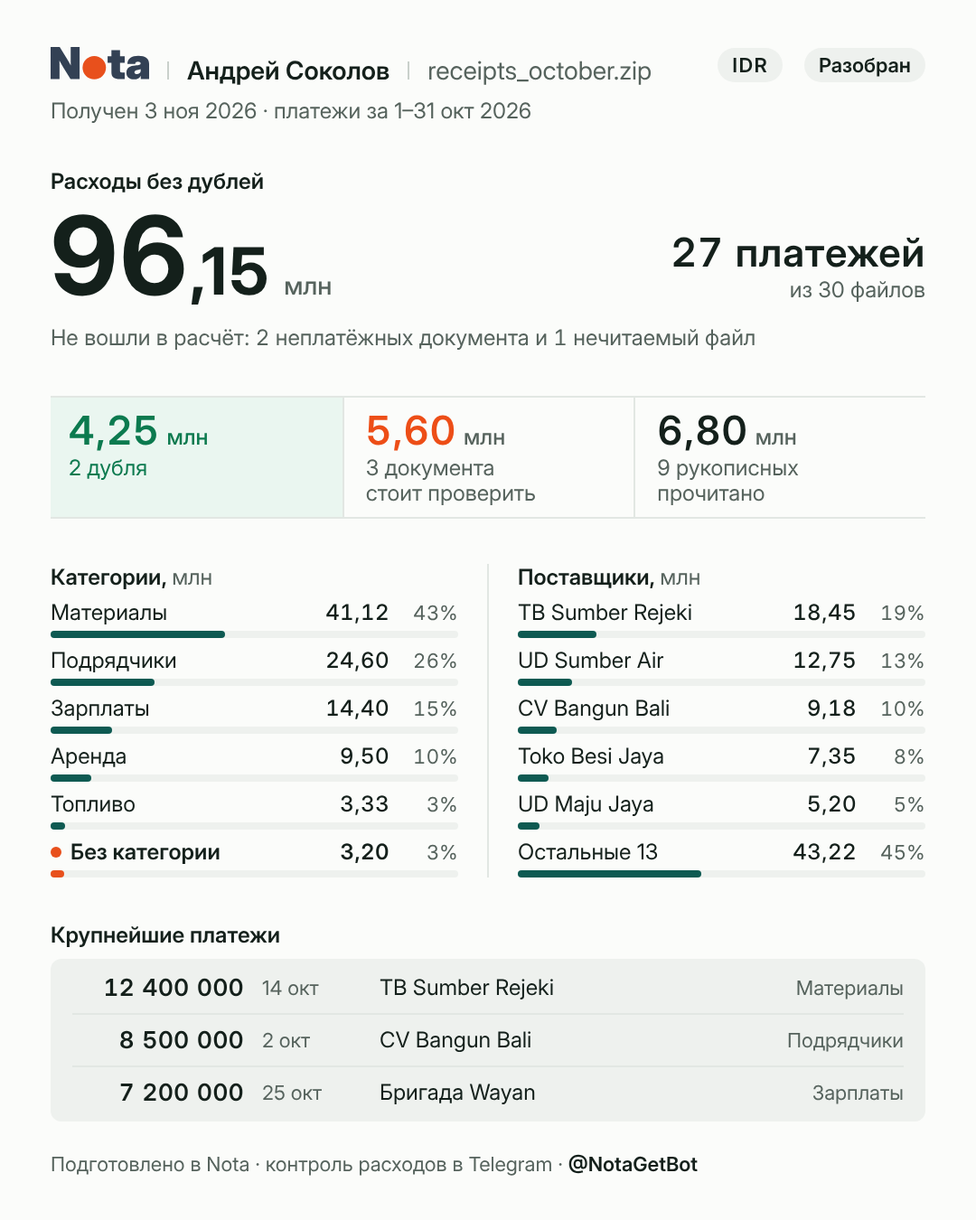
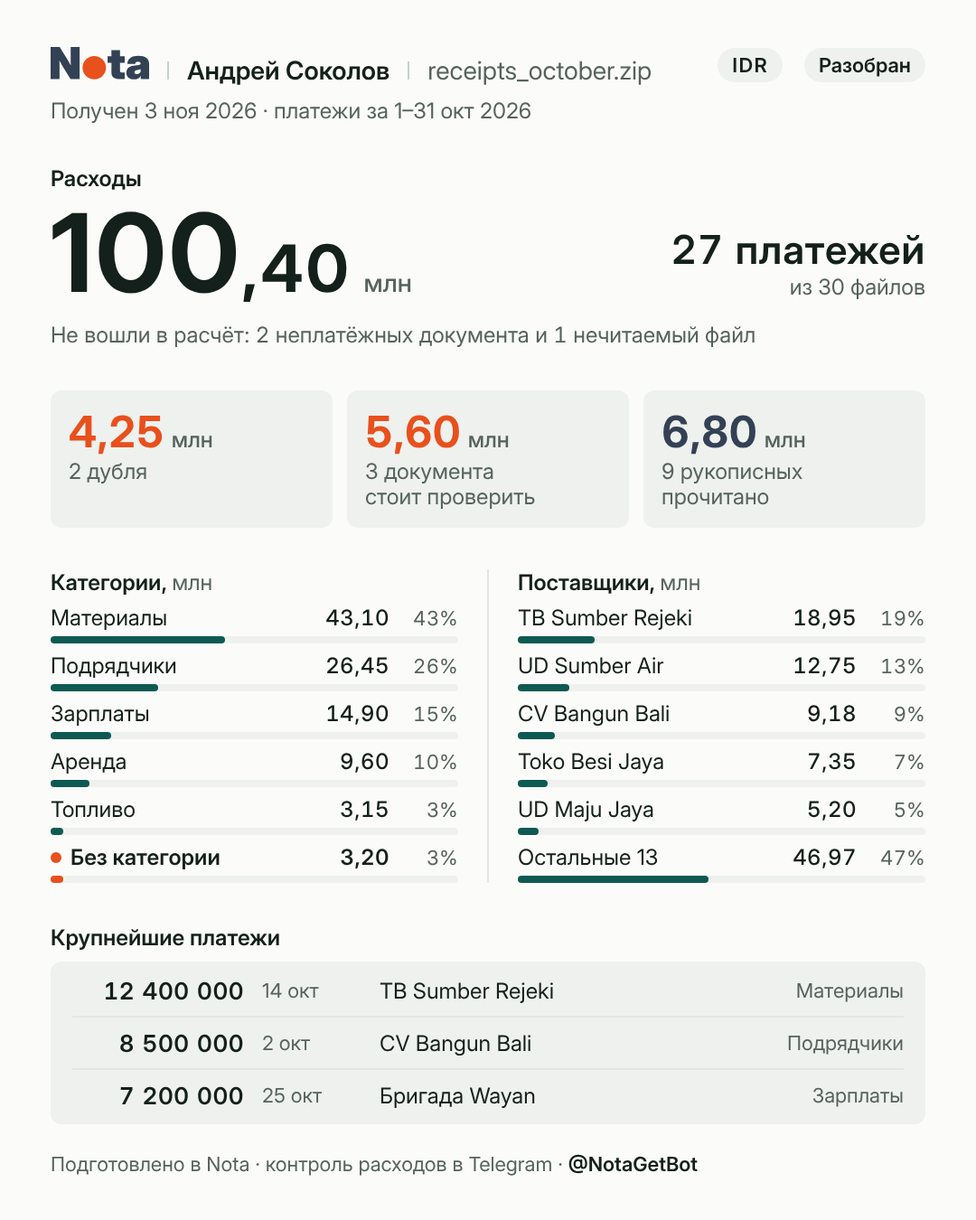
Founder notes: archive card with tiles and gross total
Claude-Session: https://claude.ai/code/session_01L3HhR7LSGwJtypFbeUeh92

diff --git a/founder/report-cards/archive.html b/founder/report-cards/archive.html
@@ -21,15 +21,15 @@ a{color:#56635D}a:hover{color:#14201B}
 <div style="height: 12px; flex: none"></div>
 <div style="font-size: 24px; color: #56635D; white-space: nowrap">Получен 3 ноя 2026 · платежи за 1–31 окт 2026</div>
 <div style="flex: 1 0 40px; max-height: 96px"></div>
-<div style="font-size: 24px; font-weight: 600; color: #14201B">Расходы без дублей</div>
+<div style="font-size: 24px; font-weight: 600; color: #14201B">Расходы</div>
 <div style="height: 8px; flex: none"></div>
-<div style="height: 120px; display: flex; align-items: flex-end; justify-content: space-between"><div style="display: flex; align-items: baseline; gap: 14px"><span style="font-size: 120px; font-weight: 700; line-height: 1; letter-spacing: 0.025em; color: #14201B">96<span style="font-size: 72px">,15</span></span><span style="font-size: 28px; font-weight: 500; color: #56635D">млн</span></div><div style="display: flex; flex-direction: column; align-items: flex-end; gap: 4px; padding-bottom: 8px"><span style="font-size: 44px; font-weight: 600; line-height: 48px; color: #14201B; font-variant-numeric: tabular-nums; letter-spacing: 0.02em">27 платежей</span><span style="font-size: 24px; line-height: 28px; color: #56635D">из 30 файлов</span></div></div>
+<div style="height: 120px; display: flex; align-items: flex-end; justify-content: space-between"><div style="display: flex; align-items: baseline; gap: 14px"><span style="font-size: 120px; font-weight: 700; line-height: 1; letter-spacing: 0.025em; color: #14201B">100<span style="font-size: 72px">,40</span></span><span style="font-size: 28px; font-weight: 500; color: #56635D">млн</span></div><div style="display: flex; flex-direction: column; align-items: flex-end; gap: 4px; padding-bottom: 8px"><span style="font-size: 44px; font-weight: 600; line-height: 48px; color: #14201B; font-variant-numeric: tabular-nums; letter-spacing: 0.02em">27 платежей</span><span style="font-size: 24px; line-height: 28px; color: #56635D">из 30 файлов</span></div></div>
 <div style="height: 16px; flex: none"></div>
 <div style="font-size: 24px; line-height: 30px; color: #56635D; font-variant-numeric: tabular-nums">Не вошли в расчёт: 2 неплатёжных документа и 1 нечитаемый файл</div>
 <div style="flex: 1 0 40px; max-height: 96px"></div>
-<div style="height: 136px; box-sizing: border-box; display: grid; grid-template-columns: 1fr 1fr 1fr; border-top: 2px solid #E2E7E3; border-bottom: 2px solid #E2E7E3"><div style="background: #EAF6F0; padding: 12px 16px 12px 20px; display: flex; flex-direction: column; gap: 4px"><div style="display: flex; align-items: baseline; gap: 8px; white-space: nowrap"><span style="font-size: 44px; font-weight: 600; line-height: 48px; color: #0C7A4F; font-variant-numeric: tabular-nums; letter-spacing: 0.02em">4,25</span><span style="font-size: 24px; font-weight: 500; color: #0C7A4F">млн</span></div><div style="font-size: 24px; line-height: 28px; color: #0C7A4F">2 дубля</div></div><div style="border-left: 2px solid #E2E7E3; padding: 12px 16px 12px 24px; display: flex; flex-direction: column; gap: 4px"><div style="display: flex; align-items: baseline; gap: 8px; white-space: nowrap"><span style="font-size: 44px; font-weight: 600; line-height: 48px; color: #ED4E17; font-variant-numeric: tabular-nums; letter-spacing: 0.02em">5,60</span><span style="font-size: 24px; font-weight: 500; color: #56635D">млн</span></div><div style="font-size: 24px; line-height: 28px; color: #56635D">3 документа<br>стоит проверить</div></div><div style="border-left: 2px solid #E2E7E3; padding: 12px 16px 12px 24px; display: flex; flex-direction: column; gap: 4px"><div style="display: flex; align-items: baseline; gap: 8px; white-space: nowrap"><span style="font-size: 44px; font-weight: 600; line-height: 48px; color: #14201B; font-variant-numeric: tabular-nums; letter-spacing: 0.02em">6,80</span><span style="font-size: 24px; font-weight: 500; color: #56635D">млн</span></div><div style="font-size: 24px; line-height: 28px; color: #56635D">9 рукописных<br>прочитано</div></div></div>
+<div style="display: grid; grid-template-columns: repeat(3, minmax(0, 1fr)); gap: 16px"><div style="box-sizing: border-box; min-width: 0; padding: 20px; background: #EEF1EE; border-radius: 12px; display: flex; flex-direction: column; gap: 4px"><div style="display: flex; align-items: baseline; gap: 8px; white-space: nowrap"><span style="font-size: 48px; font-weight: 700; line-height: 52px; color: #E8501C; font-variant-numeric: tabular-nums">4,25</span><span style="font-size: 24px; font-weight: 500; color: #56635D">млн</span></div><div style="font-size: 24px; line-height: 28px; min-height: 56px; color: #56635D">2 дубля</div></div><div style="box-sizing: border-box; min-width: 0; padding: 20px; background: #EEF1EE; border-radius: 12px; display: flex; flex-direction: column; gap: 4px"><div style="display: flex; align-items: baseline; gap: 8px; white-space: nowrap"><span style="font-size: 48px; font-weight: 700; line-height: 52px; color: #E8501C; font-variant-numeric: tabular-nums">5,60</span><span style="font-size: 24px; font-weight: 500; color: #56635D">млн</span></div><div style="font-size: 24px; line-height: 28px; min-height: 56px; color: #56635D">3 документа<br>стоит проверить</div></div><div style="box-sizing: border-box; min-width: 0; padding: 20px; background: #EEF1EE; border-radius: 12px; display: flex; flex-direction: column; gap: 4px"><div style="display: flex; align-items: baseline; gap: 8px; white-space: nowrap"><span style="font-size: 48px; font-weight: 700; line-height: 52px; color: #334154; font-variant-numeric: tabular-nums">6,80</span><span style="font-size: 24px; font-weight: 500; color: #56635D">млн</span></div><div style="font-size: 24px; line-height: 28px; min-height: 56px; color: #56635D">9 рукописных<br>прочитано</div></div></div>
 <div style="flex: 1 0 40px; max-height: 96px"></div>
-<div style="display: grid; grid-template-columns: 1fr 2px 1fr; column-gap: 32px; align-items: start"><div style="display: flex; flex-direction: column; gap: 10px"><div style="font-size: 24px; font-weight: 600; color: #14201B">Категории, <span style="font-weight: 400; color: #56635D">млн</span></div><div><div style="display: grid; grid-template-columns: 1fr auto 64px; column-gap: 12px; align-items: baseline"><span style="font-size: 24px; font-weight: 400; color: #14201B; white-space: nowrap; overflow: hidden; text-overflow: ellipsis">Материалы</span><span style="font-size: 24px; font-weight: 500; font-variant-numeric: tabular-nums; letter-spacing: 0.02em">41,12</span><span style="font-size: 22px; color: #56635D; text-align: right; font-variant-numeric: tabular-nums; letter-spacing: 0.02em">43%</span></div><div style="margin-top: 6px; height: 8px; border-radius: 4px; background: #EEF1EE"><div style="width: 42.8%; height: 8px; border-radius: 4px; background: #0E5A52"></div></div></div><div><div style="display: grid; grid-template-columns: 1fr auto 64px; column-gap: 12px; align-items: baseline"><span style="font-size: 24px; font-weight: 400; color: #14201B; white-space: nowrap; overflow: hidden; text-overflow: ellipsis">Подрядчики</span><span style="font-size: 24px; font-weight: 500; font-variant-numeric: tabular-nums; letter-spacing: 0.02em">24,60</span><span style="font-size: 22px; color: #56635D; text-align: right; font-variant-numeric: tabular-nums; letter-spacing: 0.02em">26%</span></div><div style="margin-top: 6px; height: 8px; border-radius: 4px; background: #EEF1EE"><div style="width: 25.6%; height: 8px; border-radius: 4px; background: #0E5A52"></div></div></div><div><div style="display: grid; grid-template-columns: 1fr auto 64px; column-gap: 12px; align-items: baseline"><span style="font-size: 24px; font-weight: 400; color: #14201B; white-space: nowrap; overflow: hidden; text-overflow: ellipsis">Зарплаты</span><span style="font-size: 24px; font-weight: 500; font-variant-numeric: tabular-nums; letter-spacing: 0.02em">14,40</span><span style="font-size: 22px; color: #56635D; text-align: right; font-variant-numeric: tabular-nums; letter-spacing: 0.02em">15%</span></div><div style="margin-top: 6px; height: 8px; border-radius: 4px; background: #EEF1EE"><div style="width: 15.0%; height: 8px; border-radius: 4px; background: #0E5A52"></div></div></div><div><div style="display: grid; grid-template-columns: 1fr auto 64px; column-gap: 12px; align-items: baseline"><span style="font-size: 24px; font-weight: 400; color: #14201B; white-space: nowrap; overflow: hidden; text-overflow: ellipsis">Аренда</span><span style="font-size: 24px; font-weight: 500; font-variant-numeric: tabular-nums; letter-spacing: 0.02em">9,50</span><span style="font-size: 22px; color: #56635D; text-align: right; font-variant-numeric: tabular-nums; letter-spacing: 0.02em">10%</span></div><div style="margin-top: 6px; height: 8px; border-radius: 4px; background: #EEF1EE"><div style="width: 9.9%; height: 8px; border-radius: 4px; background: #0E5A52"></div></div></div><div><div style="display: grid; grid-template-columns: 1fr auto 64px; column-gap: 12px; align-items: baseline"><span style="font-size: 24px; font-weight: 400; color: #14201B; white-space: nowrap; overflow: hidden; text-overflow: ellipsis">Топливо</span><span style="font-size: 24px; font-weight: 500; font-variant-numeric: tabular-nums; letter-spacing: 0.02em">3,33</span><span style="font-size: 22px; color: #56635D; text-align: right; font-variant-numeric: tabular-nums; letter-spacing: 0.02em">3%</span></div><div style="margin-top: 6px; height: 8px; border-radius: 4px; background: #EEF1EE"><div style="width: 3.5%; height: 8px; border-radius: 4px; background: #0E5A52"></div></div></div><div><div style="display: grid; grid-template-columns: 1fr auto 64px; column-gap: 12px; align-items: baseline"><span style="font-size: 24px; font-weight: 600; color: #14201B; white-space: nowrap; overflow: hidden; text-overflow: ellipsis"><span style="display: inline-block; width: 12px; height: 12px; background: #E8501C; border-radius: 50%; margin-right: 10px; vertical-align: 2px"></span>Без категории</span><span style="font-size: 24px; font-weight: 600; font-variant-numeric: tabular-nums; letter-spacing: 0.02em">3,20</span><span style="font-size: 22px; color: #56635D; text-align: right; font-variant-numeric: tabular-nums; letter-spacing: 0.02em">3%</span></div><div style="margin-top: 6px; height: 8px; border-radius: 4px; background: #EEF1EE"><div style="width: 3.3%; height: 8px; border-radius: 4px; background: #E8501C"></div></div></div></div><div style="background: #E2E7E3; align-self: stretch"></div><div style="display: flex; flex-direction: column; gap: 10px"><div style="font-size: 24px; font-weight: 600; color: #14201B">Поставщики, <span style="font-weight: 400; color: #56635D">млн</span></div><div><div style="display: grid; grid-template-columns: 1fr auto 64px; column-gap: 12px; align-items: baseline"><span style="font-size: 24px; font-weight: 400; color: #14201B; white-space: nowrap; overflow: hidden; text-overflow: ellipsis">TB Sumber Rejeki</span><span style="font-size: 24px; font-weight: 500; font-variant-numeric: tabular-nums; letter-spacing: 0.02em">18,45</span><span style="font-size: 22px; color: #56635D; text-align: right; font-variant-numeric: tabular-nums; letter-spacing: 0.02em">19%</span></div><div style="margin-top: 6px; height: 8px; border-radius: 4px; background: #EEF1EE"><div style="width: 19.2%; height: 8px; border-radius: 4px; background: #0E5A52"></div></div></div><div><div style="display: grid; grid-template-columns: 1fr auto 64px; column-gap: 12px; align-items: baseline"><span style="font-size: 24px; font-weight: 400; color: #14201B; white-space: nowrap; overflow: hidden; text-overflow: ellipsis">UD Sumber Air</span><span style="font-size: 24px; font-weight: 500; font-variant-numeric: tabular-nums; letter-spacing: 0.02em">12,75</span><span style="font-size: 22px; color: #56635D; text-align: right; font-variant-numeric: tabular-nums; letter-spacing: 0.02em">13%</span></div><div style="margin-top: 6px; height: 8px; border-radius: 4px; background: #EEF1EE"><div style="width: 13.3%; height: 8px; border-radius: 4px; background: #0E5A52"></div></div></div><div><div style="display: grid; grid-template-columns: 1fr auto 64px; column-gap: 12px; align-items: baseline"><span style="font-size: 24px; font-weight: 400; color: #14201B; white-space: nowrap; overflow: hidden; text-overflow: ellipsis">CV Bangun Bali</span><span style="font-size: 24px; font-weight: 500; font-variant-numeric: tabular-nums; letter-spacing: 0.02em">9,18</span><span style="font-size: 22px; color: #56635D; text-align: right; font-variant-numeric: tabular-nums; letter-spacing: 0.02em">10%</span></div><div style="margin-top: 6px; height: 8px; border-radius: 4px; background: #EEF1EE"><div style="width: 9.5%; height: 8px; border-radius: 4px; background: #0E5A52"></div></div></div><div><div style="display: grid; grid-template-columns: 1fr auto 64px; column-gap: 12px; align-items: baseline"><span style="font-size: 24px; font-weight: 400; color: #14201B; white-space: nowrap; overflow: hidden; text-overflow: ellipsis">Toko Besi Jaya</span><span style="font-size: 24px; font-weight: 500; font-variant-numeric: tabular-nums; letter-spacing: 0.02em">7,35</span><span style="font-size: 22px; color: #56635D; text-align: right; font-variant-numeric: tabular-nums; letter-spacing: 0.02em">8%</span></div><div style="margin-top: 6px; height: 8px; border-radius: 4px; background: #EEF1EE"><div style="width: 7.6%; height: 8px; border-radius: 4px; background: #0E5A52"></div></div></div><div><div style="display: grid; grid-template-columns: 1fr auto 64px; column-gap: 12px; align-items: baseline"><span style="font-size: 24px; font-weight: 400; color: #14201B; white-space: nowrap; overflow: hidden; text-overflow: ellipsis">UD Maju Jaya</span><span style="font-size: 24px; font-weight: 500; font-variant-numeric: tabular-nums; letter-spacing: 0.02em">5,20</span><span style="font-size: 22px; color: #56635D; text-align: right; font-variant-numeric: tabular-nums; letter-spacing: 0.02em">5%</span></div><div style="margin-top: 6px; height: 8px; border-radius: 4px; background: #EEF1EE"><div style="width: 5.4%; height: 8px; border-radius: 4px; background: #0E5A52"></div></div></div><div><div style="display: grid; grid-template-columns: 1fr auto 64px; column-gap: 12px; align-items: baseline"><span style="font-size: 24px; font-weight: 400; color: #14201B; white-space: nowrap; overflow: hidden; text-overflow: ellipsis">Остальные 13</span><span style="font-size: 24px; font-weight: 500; font-variant-numeric: tabular-nums; letter-spacing: 0.02em">43,22</span><span style="font-size: 22px; color: #56635D; text-align: right; font-variant-numeric: tabular-nums; letter-spacing: 0.02em">45%</span></div><div style="margin-top: 6px; height: 8px; border-radius: 4px; background: #EEF1EE"><div style="width: 45.0%; height: 8px; border-radius: 4px; background: #0E5A52"></div></div></div></div></div>
+<div style="display: grid; grid-template-columns: 1fr 2px 1fr; column-gap: 32px; align-items: start"><div style="display: flex; flex-direction: column; gap: 10px"><div style="font-size: 24px; font-weight: 600; color: #14201B">Категории, <span style="font-weight: 400; color: #56635D">млн</span></div><div><div style="display: grid; grid-template-columns: 1fr auto 64px; column-gap: 12px; align-items: baseline"><span style="font-size: 24px; font-weight: 400; color: #14201B; white-space: nowrap; overflow: hidden; text-overflow: ellipsis">Материалы</span><span style="font-size: 24px; font-weight: 500; font-variant-numeric: tabular-nums; letter-spacing: 0.02em">43,10</span><span style="font-size: 22px; color: #56635D; text-align: right; font-variant-numeric: tabular-nums; letter-spacing: 0.02em">43%</span></div><div style="margin-top: 6px; height: 8px; border-radius: 4px; background: #EEF1EE"><div style="width: 42.9%; height: 8px; border-radius: 4px; background: #0E5A52"></div></div></div><div><div style="display: grid; grid-template-columns: 1fr auto 64px; column-gap: 12px; align-items: baseline"><span style="font-size: 24px; font-weight: 400; color: #14201B; white-space: nowrap; overflow: hidden; text-overflow: ellipsis">Подрядчики</span><span style="font-size: 24px; font-weight: 500; font-variant-numeric: tabular-nums; letter-spacing: 0.02em">26,45</span><span style="font-size: 22px; color: #56635D; text-align: right; font-variant-numeric: tabular-nums; letter-spacing: 0.02em">26%</span></div><div style="margin-top: 6px; height: 8px; border-radius: 4px; background: #EEF1EE"><div style="width: 26.3%; height: 8px; border-radius: 4px; background: #0E5A52"></div></div></div><div><div style="display: grid; grid-template-columns: 1fr auto 64px; column-gap: 12px; align-items: baseline"><span style="font-size: 24px; font-weight: 400; color: #14201B; white-space: nowrap; overflow: hidden; text-overflow: ellipsis">Зарплаты</span><span style="font-size: 24px; font-weight: 500; font-variant-numeric: tabular-nums; letter-spacing: 0.02em">14,90</span><span style="font-size: 22px; color: #56635D; text-align: right; font-variant-numeric: tabular-nums; letter-spacing: 0.02em">15%</span></div><div style="margin-top: 6px; height: 8px; border-radius: 4px; background: #EEF1EE"><div style="width: 14.8%; height: 8px; border-radius: 4px; background: #0E5A52"></div></div></div><div><div style="display: grid; grid-template-columns: 1fr auto 64px; column-gap: 12px; align-items: baseline"><span style="font-size: 24px; font-weight: 400; color: #14201B; white-space: nowrap; overflow: hidden; text-overflow: ellipsis">Аренда</span><span style="font-size: 24px; font-weight: 500; font-variant-numeric: tabular-nums; letter-spacing: 0.02em">9,60</span><span style="font-size: 22px; color: #56635D; text-align: right; font-variant-numeric: tabular-nums; letter-spacing: 0.02em">10%</span></div><div style="margin-top: 6px; height: 8px; border-radius: 4px; background: #EEF1EE"><div style="width: 9.6%; height: 8px; border-radius: 4px; background: #0E5A52"></div></div></div><div><div style="display: grid; grid-template-columns: 1fr auto 64px; column-gap: 12px; align-items: baseline"><span style="font-size: 24px; font-weight: 400; color: #14201B; white-space: nowrap; overflow: hidden; text-overflow: ellipsis">Топливо</span><span style="font-size: 24px; font-weight: 500; font-variant-numeric: tabular-nums; letter-spacing: 0.02em">3,15</span><span style="font-size: 22px; color: #56635D; text-align: right; font-variant-numeric: tabular-nums; letter-spacing: 0.02em">3%</span></div><div style="margin-top: 6px; height: 8px; border-radius: 4px; background: #EEF1EE"><div style="width: 3.1%; height: 8px; border-radius: 4px; background: #0E5A52"></div></div></div><div><div style="display: grid; grid-template-columns: 1fr auto 64px; column-gap: 12px; align-items: baseline"><span style="font-size: 24px; font-weight: 600; color: #14201B; white-space: nowrap; overflow: hidden; text-overflow: ellipsis"><span style="display: inline-block; width: 12px; height: 12px; background: #E8501C; border-radius: 50%; margin-right: 10px; vertical-align: 2px"></span>Без категории</span><span style="font-size: 24px; font-weight: 600; font-variant-numeric: tabular-nums; letter-spacing: 0.02em">3,20</span><span style="font-size: 22px; color: #56635D; text-align: right; font-variant-numeric: tabular-nums; letter-spacing: 0.02em">3%</span></div><div style="margin-top: 6px; height: 8px; border-radius: 4px; background: #EEF1EE"><div style="width: 3.2%; height: 8px; border-radius: 4px; background: #E8501C"></div></div></div></div><div style="background: #E2E7E3; align-self: stretch"></div><div style="display: flex; flex-direction: column; gap: 10px"><div style="font-size: 24px; font-weight: 600; color: #14201B">Поставщики, <span style="font-weight: 400; color: #56635D">млн</span></div><div><div style="display: grid; grid-template-columns: 1fr auto 64px; column-gap: 12px; align-items: baseline"><span style="font-size: 24px; font-weight: 400; color: #14201B; white-space: nowrap; overflow: hidden; text-overflow: ellipsis">TB Sumber Rejeki</span><span style="font-size: 24px; font-weight: 500; font-variant-numeric: tabular-nums; letter-spacing: 0.02em">18,95</span><span style="font-size: 22px; color: #56635D; text-align: right; font-variant-numeric: tabular-nums; letter-spacing: 0.02em">19%</span></div><div style="margin-top: 6px; height: 8px; border-radius: 4px; background: #EEF1EE"><div style="width: 18.9%; height: 8px; border-radius: 4px; background: #0E5A52"></div></div></div><div><div style="display: grid; grid-template-columns: 1fr auto 64px; column-gap: 12px; align-items: baseline"><span style="font-size: 24px; font-weight: 400; color: #14201B; white-space: nowrap; overflow: hidden; text-overflow: ellipsis">UD Sumber Air</span><span style="font-size: 24px; font-weight: 500; font-variant-numeric: tabular-nums; letter-spacing: 0.02em">12,75</span><span style="font-size: 22px; color: #56635D; text-align: right; font-variant-numeric: tabular-nums; letter-spacing: 0.02em">13%</span></div><div style="margin-top: 6px; height: 8px; border-radius: 4px; background: #EEF1EE"><div style="width: 12.7%; height: 8px; border-radius: 4px; background: #0E5A52"></div></div></div><div><div style="display: grid; grid-template-columns: 1fr auto 64px; column-gap: 12px; align-items: baseline"><span style="font-size: 24px; font-weight: 400; color: #14201B; white-space: nowrap; overflow: hidden; text-overflow: ellipsis">CV Bangun Bali</span><span style="font-size: 24px; font-weight: 500; font-variant-numeric: tabular-nums; letter-spacing: 0.02em">9,18</span><span style="font-size: 22px; color: #56635D; text-align: right; font-variant-numeric: tabular-nums; letter-spacing: 0.02em">9%</span></div><div style="margin-top: 6px; height: 8px; border-radius: 4px; background: #EEF1EE"><div style="width: 9.1%; height: 8px; border-radius: 4px; background: #0E5A52"></div></div></div><div><div style="display: grid; grid-template-columns: 1fr auto 64px; column-gap: 12px; align-items: baseline"><span style="font-size: 24px; font-weight: 400; color: #14201B; white-space: nowrap; overflow: hidden; text-overflow: ellipsis">Toko Besi Jaya</span><span style="font-size: 24px; font-weight: 500; font-variant-numeric: tabular-nums; letter-spacing: 0.02em">7,35</span><span style="font-size: 22px; color: #56635D; text-align: right; font-variant-numeric: tabular-nums; letter-spacing: 0.02em">7%</span></div><div style="margin-top: 6px; height: 8px; border-radius: 4px; background: #EEF1EE"><div style="width: 7.3%; height: 8px; border-radius: 4px; background: #0E5A52"></div></div></div><div><div style="display: grid; grid-template-columns: 1fr auto 64px; column-gap: 12px; align-items: baseline"><span style="font-size: 24px; font-weight: 400; color: #14201B; white-space: nowrap; overflow: hidden; text-overflow: ellipsis">UD Maju Jaya</span><span style="font-size: 24px; font-weight: 500; font-variant-numeric: tabular-nums; letter-spacing: 0.02em">5,20</span><span style="font-size: 22px; color: #56635D; text-align: right; font-variant-numeric: tabular-nums; letter-spacing: 0.02em">5%</span></div><div style="margin-top: 6px; height: 8px; border-radius: 4px; background: #EEF1EE"><div style="width: 5.2%; height: 8px; border-radius: 4px; background: #0E5A52"></div></div></div><div><div style="display: grid; grid-template-columns: 1fr auto 64px; column-gap: 12px; align-items: baseline"><span style="font-size: 24px; font-weight: 400; color: #14201B; white-space: nowrap; overflow: hidden; text-overflow: ellipsis">Остальные 13</span><span style="font-size: 24px; font-weight: 500; font-variant-numeric: tabular-nums; letter-spacing: 0.02em">46,97</span><span style="font-size: 22px; color: #56635D; text-align: right; font-variant-numeric: tabular-nums; letter-spacing: 0.02em">47%</span></div><div style="margin-top: 6px; height: 8px; border-radius: 4px; background: #EEF1EE"><div style="width: 46.8%; height: 8px; border-radius: 4px; background: #0E5A52"></div></div></div></div></div>
 <div style="flex: 1 0 40px; max-height: 96px"></div>
 <div style="font-size: 24px; font-weight: 600; color: #14201B">Крупнейшие платежи</div>
 <div style="height: 12px; flex: none"></div>

diff --git a/founder/report-cards/README.md b/founder/report-cards/README.md
@@ -3,9 +3,9 @@
 ## Архив — утверждено основателем 17.11 («запомни карточку архива»)
 `archive.html` → `archive.png` (1080 × 1350).
 - Шапка: Nota · имя аккаунта · имя файла архива; плашки IDR и «Разобран».
-- Итог «Расходы без дублей» в млн, справа число платежей и файлов, строка «Не вошли в расчёт».
-- Виджеты полосой, как в месячном отчёте: сумма — главная цифра, количество документов — под ней. Порядок: дубли (зелёная плашка) → стоит проверить (оранжевый) → рукописные.
-- Категории и поставщики — по 6 строк, суммы в млн, «млн» серым в заголовке, зелёные полоски, «Без категории» оранжевым.
+- Итог «Расходы» в млн — с дублями (правка 17.11: подпись «без дублей» убрана), справа число платежей и файлов, строка «Не вошли в расчёт».
+- Три серые плитки (правка 17.11: вместо полосы): сумма — главная цифра, количество документов — под ней. Порядок: дубли → стоит проверить (обе суммы оранжевые) → рукописные.
+- Категории и поставщики — по 6 строк, суммы в млн и в сумме дают итог с дублями, «млн» серым в заголовке, зелёные полоски, «Без категории» оранжевым.
 - Крупнейшие платежи — полные суммы.
 - Данные тестовые. Шрифт подключён из `nota/public/fonts/` абсолютным путём — рендерить в этом репозитории (Playwright, 1080 × 1350, для сайта — deviceScaleFactor 2).
 
